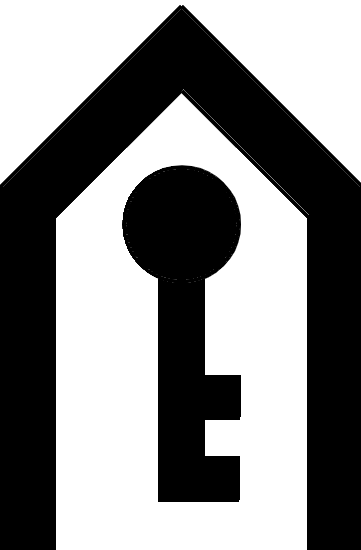
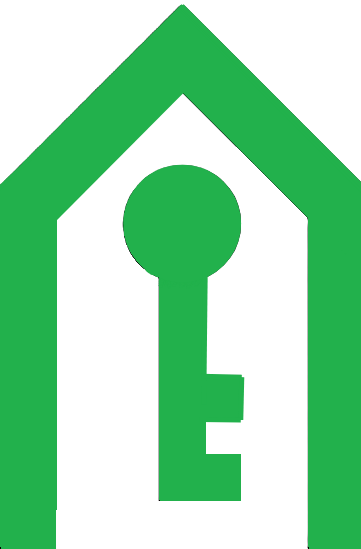
Updated the theme of the site to be more comfortable on the eyes

diff --git a/style.css b/style.css
@@ -1,10 +1,11 @@
 /* ===== CSS Variables (Colors and Theme) ===== */
 :root {
-    --main-color: #ffffff;
-    --accent: #646464;
+    --main-color: #363636;
+    --accent: #003e7b;
     --sec-accent: #454545;
-    --title-text: #00b48a;
-    --title-subtext: #00ff37;
+    --title-text: #0092c3;
+    --title-subtext: #00bfff;
+    --text-color: #ffffff;
 }
 
 /* ===== Global Button Styles ===== */
@@ -13,10 +14,20 @@ button {
 }
 
 /* ===== Heading Styles ===== */
+h1 {
+    text-align: center;
+    color: var(--title-text);
+}
+
 h2 {
+    color: var(--title-subtext);
     text-align: center;
 }
 
+h3 {
+    text-align: center;
+    color: var(--title-subtext);
+}
 
 /* ===== Password Prompt ===== */
 .password-prompt {
@@ -26,6 +37,7 @@ h2 {
 
 /* ===== Paragraph and Text Styles ===== */
 p {
+  color: var(--text-color);
   margin: 0 auto;
   max-width: 800px;
   text-align: left;
@@ -81,6 +93,7 @@ nav a {
 }
 
 ul {
+  color: var(--text-color);
   display: table;
   margin: 0 auto; 
   padding-left: 0em; 
@@ -104,10 +117,15 @@ header, footer {
 
 /* ===== Main Content Area ===== */
 main p {
+    color: var(--text-color);
     text-indent: 2em;
     margin: 0em auto;
     max-width: 800px;
     line-height:1.6;
+}
+
+p {
+    color: var(--text-color);
 }
 
 main {

diff --git a/updates.html b/updates.html
@@ -17,19 +17,23 @@
 
     <!--This is the primary content code.-->
     <main>
-        <h3>Need updates:</h3>
+        <h2>Need updates:</h2>
         <p>
-            <li>Add character descriptions</li>
-            <li>Add Player descriptions</li>
-            <li>Add World descriptions</li>
-            <li>Add magic descriptions</li>
-            <li>Add race descriptions</li>
+            <ul>
+                <li>Add character descriptions</li>
+                <li>Add Player descriptions</li>
+                <li>Add World descriptions</li>
+                <li>Add magic descriptions</li>
+                <li>Add race descriptions</li>
+            </ul>
         </p>
-        <h3>Recently added:</h3>
+        <h2>Recently added:</h2>
         <p>
-            <li>Updated password</li>
-            <li>Added the Coming Soon tab</li>
-            <li>Added Players Tab</li>
+            <ul>
+                <li>Updated password</li>
+                <li>Added the Coming Soon tab</li>
+                <li>Added Players Tab</li>
+            </ul>
         </p>
 
         <!--This is the hidden password info-->   
